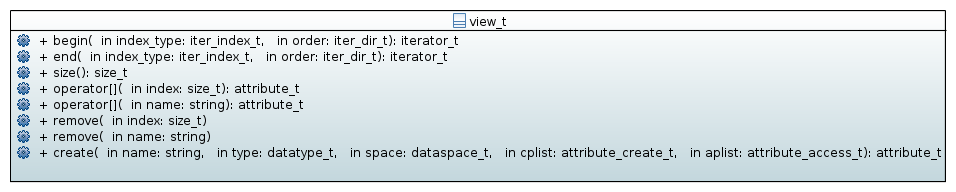
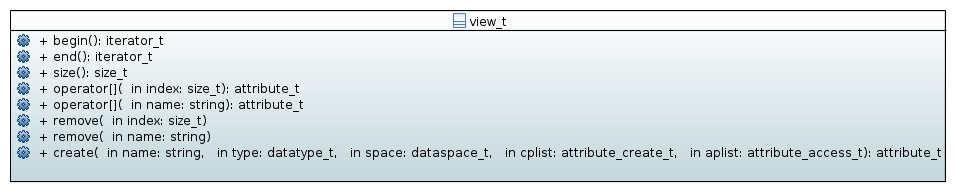
Updated view interfaces according to the new concept.

Changed region(s): [[0.091, 0.1875, 0.4854, 0.25], [0.091, 0.2812, 0.455, 0.3438]]

diff --git a/design/source/design/node.rst b/design/source/design/node.rst
@@ -57,8 +57,8 @@ this two member functions see :ref:`the-name-problem`.
 
 .. _node-iterators:
 
-Iterators
-=========
+Iterators and views
+===================
 
 The namespace :cpp:any:`h5::node` provides two iterators 
 
@@ -75,43 +75,16 @@ one iterates recursively over all children and subchildren of a group.
 
 Both iterators satisfy the *ForwardIterator* concept as defined by the 
 C++ standard (see `ForwardIterator concept`_ for details).
-The iterators can be created using the free standing functions
+Instances of those iterators are created by the :cpp:func:`view_t::begin`, 
+:cpp:func:`view_t::end`, :cpp:func:`view_t::begin_recursive` and 
+:cpp:func:`view_t::end_recursive` member functions of the node view.
 
-.. code-block:: cpp
-
-    namespace h5 {
-    namespace node {
-        
-        iterator_t begin(const h5::group::group_t &group,
-                         h5::utilities::iter_index_t &index,
-                         h5::utilities::iter_dir_t &direction);
-        iterator_t end(const h5::gruop::group_t &group);
-        
-        recursive_iterator_t begin_recursive(const h5::group::group_t &group,
-                                             h5::utilities::iter_index_t &index,
-                                             h5::utilities::iter_dir_t &direction);
-        recursive_iterator_t end_recursive(const h5::group::group_t &group);
-    
-    }   // end of namespace node
-    }   // end of namespace h5
-
-
-.. _ForwardIterator concept: http://en.cppreference.com/w/cpp/concept/ForwardIterator
-
-
-View
-====
-
-An instance of :cpp:class:`group_t` can be interpreted in three ways
-
-* as a container of attributes
-* as a container of other nodes (datasets, groups and name datatypes)
-* and as a container of links
-
-Access to theses different representations is given by view types. 
 :cpp:class:`h5::node::view_t` provides an STL container compliant view 
 on the child-nodes of a group
 
 .. figure:: ../images/node_view_t_details.png
    :align: center
-   :width: 800px
+   :width: 600px
+   
+.. _ForwardIterator concept: http://en.cppreference.com/w/cpp/concept/ForwardIterator
+   

diff --git a/design/source/design/link.rst b/design/source/design/link.rst
@@ -19,8 +19,8 @@ Links are the glue between the nodes in an HDF5 object tree.
 
 .. _link-iterators:
 
-Iterators
-=========
+Iterators and views
+===================
 
 
 .. figure:: ../images/link_iterators.png
@@ -31,25 +31,12 @@ Both iterators satisfy the *ForwardIterator* concept as defined by the
 C++ standard (see `ForwardIterator concept`_ for details).
 Creation of the iterators works the same as for node iterators (
 see :ref:`node-iterators` for details).
+Instances of these iterators are created by the appropriate *begin* and *end*
+functions of the :cpp:class:`link::view_t` view class.
 
-.. code-block:: cpp
-
-    namespace h5 {
-    namespace link {
-        
-        iterator_t begin(const h5::group::group_t &group,
-                         h5::utilities::iter_index_t &index,
-                         h5::utilities::iter_dir_t &direction);
-        iterator_t end(const h5::gruop::group_t &group);
-        
-        recursive_iterator_t begin_recursive(const h5::group::group_t &group,
-                                             h5::utilities::iter_index_t &index,
-                                             h5::utilities::iter_dir_t &direction);
-        recursive_iterator_t end_recursive(const h5::group::group_t &group);
-    
-    }   // end of namespace node
-    }   // end of namespace h5
-
+.. figure:: ../images/link_view_t_details.png
+   :align: center
+   :width: 300px
 
 .. _ForwardIterator concept: http://en.cppreference.com/w/cpp/concept/ForwardIterator
    
